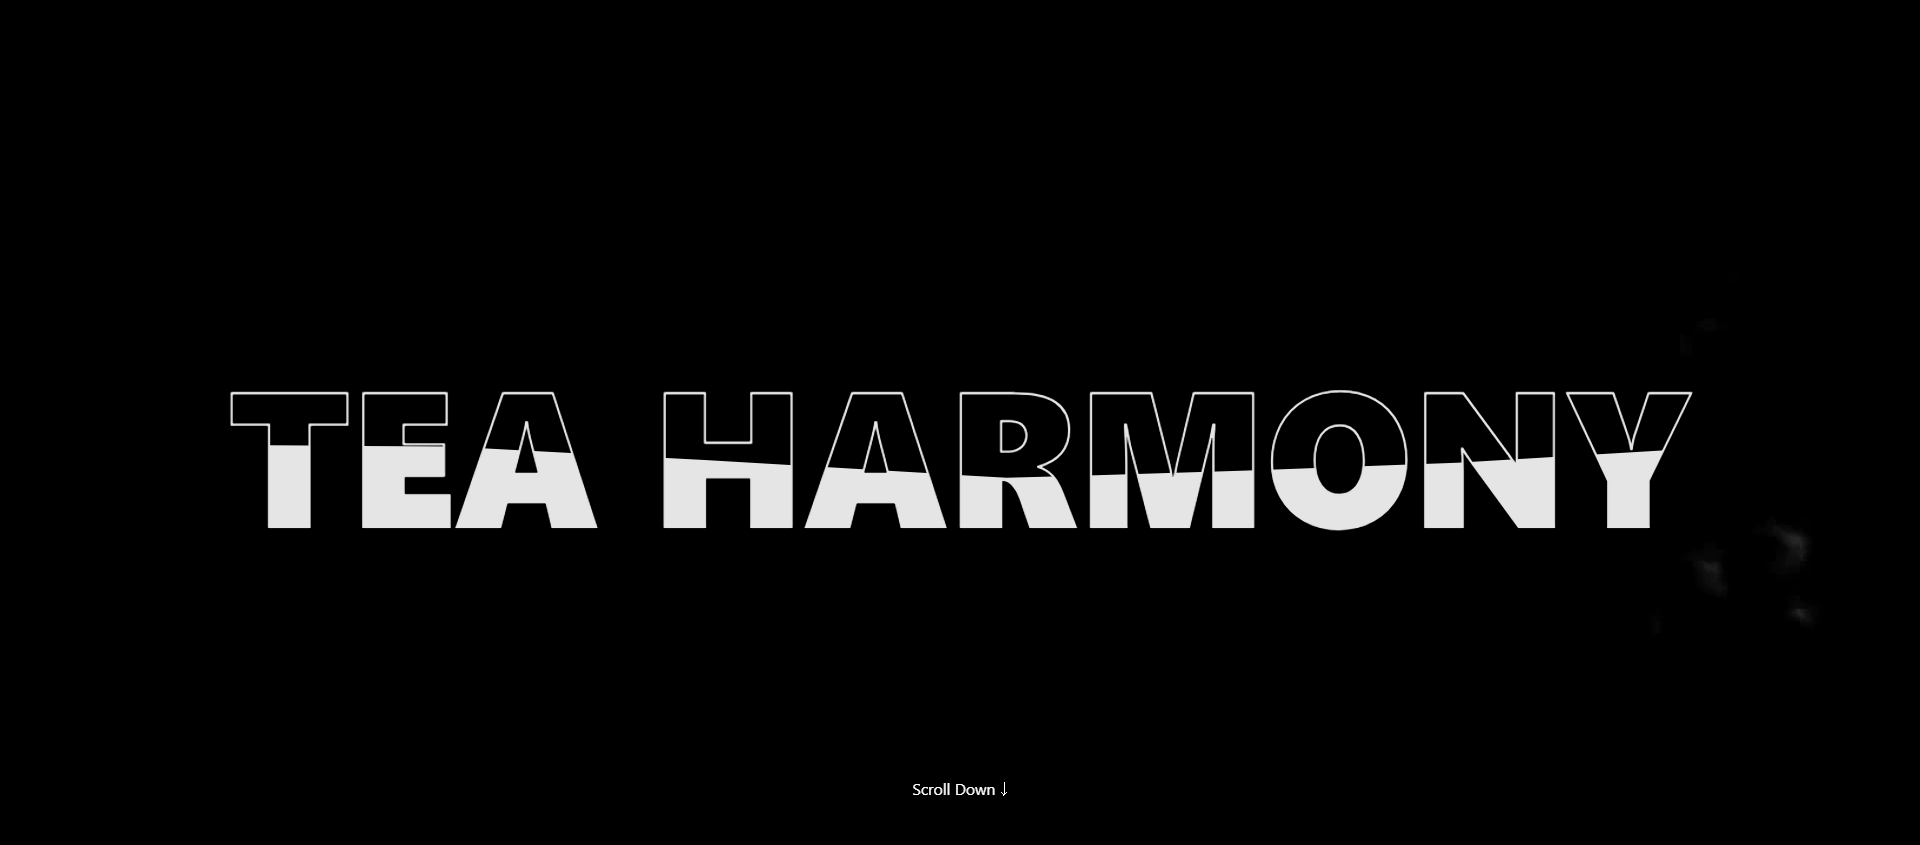
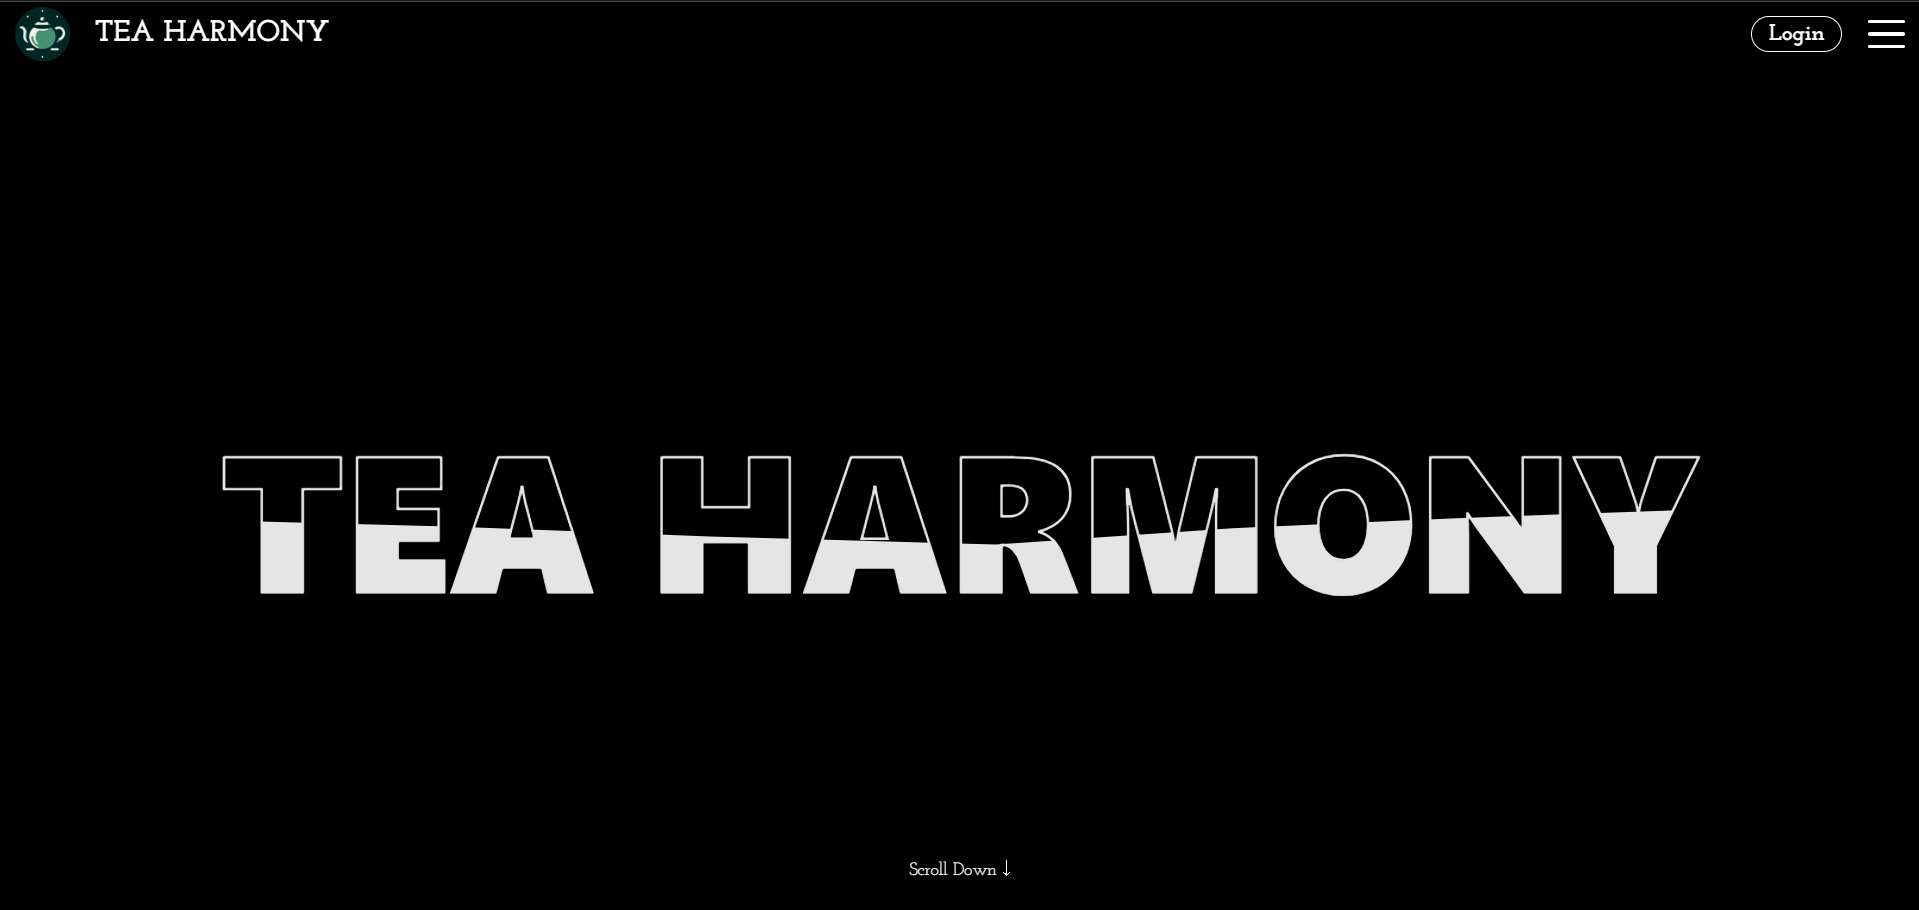
updates

diff --git a/frontend/src/components/AuthPopup.jsx b/frontend/src/components/AuthPopup.jsx
@@ -23,39 +23,50 @@ const AuthPopup = () => {
   return (
     <div className="text-lg text-black ">
       {localStorage.getItem("auth-token") ? (
-        <div className="relative">
-          <IoPersonOutline
-            className="cursor-pointer scale-[1.8] text-white"
-            onClick={handleButtonClick}
-          />
-          {isDropdownVisible && (
-            <div className=" absolute top-10 p-1 px-4 bg-white text-black font-bold text-[20px] rounded shadow-lg">
-              <NavLink onClick={handleButtonClick} to="/orders">
+        <>
+          <div className="relative hidden md:block">
+            <IoPersonOutline
+              className="cursor-pointer scale-[1.8] text-white"
+              onClick={handleButtonClick}
+            />
+            {isDropdownVisible && (
+              <div className=" absolute top-10 p-1 px-4 bg-white text-black font-bold text-[20px] rounded shadow-lg">
+                <NavLink onClick={handleButtonClick} to="/orders">
+                  <p
+                    className="hover:text-green 
+                  hover:scale-110 duration-150"
+                  >
+                    Orders
+                  </p>
+                </NavLink>
+                <hr />
                 <p
-                  className="hover:text-green 
+                  onClick={() => {
+                    localStorage.removeItem("auth-token");
+                    window.location.replace("/");
+                  }}
+                  className="hover:text-green cursor-pointer
                   hover:scale-110 duration-150"
                 >
-                  Orders
+                  Logout
                 </p>
-              </NavLink>
-              <hr />
-              <p
-                onClick={() => {
-                  localStorage.removeItem("auth-token");
-                  window.location.replace("/");
-                }}
-                className="hover:text-green cursor-pointer
-                  hover:scale-110 duration-150"
-              >
-                Logout
-              </p>
-            </div>
-          )}
-        </div>
+              </div>
+            )}
+          </div>
+          <div
+            onClick={() => {
+              localStorage.removeItem("auth-token");
+              window.location.replace("/");
+            }}
+            className="md:hidden text-white"
+          >
+            Logout
+          </div>
+        </>
       ) : (
         <button
           onClick={togglePopup}
-          className="w-[10vh] h-[4vh] outline-none border-white border-[1px] text-white text-lg cursor-pointer rounded-[75px] sweepRight"
+          className="w-[10vh] h-[4vh] outline-none border-white md:border-[1px] text-white text-lg cursor-pointer rounded-[75px] md:sweepRight"
         >
           Login
         </button>

diff --git a/frontend/src/components/Header.jsx b/frontend/src/components/Header.jsx
@@ -177,7 +177,8 @@ function Header() {
           muted
           loop
         ></video>
-        <div className="overflow-hidden w-full h-full mt-4">
+
+        <div className="hidden md:block overflow-hidden w-full h-full mt-4">
           <div className="m-auto w-1/2  relative perspective-[200px]">
             <div
               ref={img4}
@@ -246,6 +247,72 @@ function Header() {
                   alt="home"
                 />
               </NavLink>
+            </div>
+          </div>
+        </div>
+
+        <div className="md:hidden overflow-hidden w-full h-full mt-4">
+          <div className="m-auto w-2/3  relative text-white text-center text-lg flex flex-col gap-5">
+            {isLogin && (
+              <NavLink to="/cart">
+                <div
+                  onClick={handleButtonEvent}
+                  className="bg-black rounded-lg py-2 bg-opacity-65"
+                >
+                  Cart
+                </div>
+              </NavLink>
+            )}
+
+            <NavLink to="/">
+              <div
+                onClick={handleButtonEvent}
+                className="bg-black rounded-lg py-2 bg-opacity-65"
+              >
+                Home
+              </div>
+            </NavLink>
+
+            <NavLink to="/tea">
+              <div
+                onClick={handleButtonEvent}
+                className="bg-black rounded-lg py-2 bg-opacity-65"
+              >
+                Tea
+              </div>
+            </NavLink>
+
+            <NavLink to="/teaware">
+              <div
+                onClick={handleButtonEvent}
+                className="bg-black rounded-lg py-2 bg-opacity-65"
+              >
+                Teaware
+              </div>
+            </NavLink>
+
+            <NavLink to="/about">
+              <div
+                onClick={handleButtonEvent}
+                className="bg-black rounded-lg py-2 bg-opacity-65"
+              >
+                About Us
+              </div>
+            </NavLink>
+
+            {isLogin && (
+              <NavLink to="/orders">
+                <div
+                  onClick={handleButtonEvent}
+                  className="bg-black rounded-lg py-2 bg-opacity-65"
+                >
+                  Orders
+                </div>
+              </NavLink>
+            )}
+
+            <div className="bg-black rounded-lg py-2 bg-opacity-65 cursor-pointer">
+              <AuthPopup />
             </div>
           </div>
         </div>
